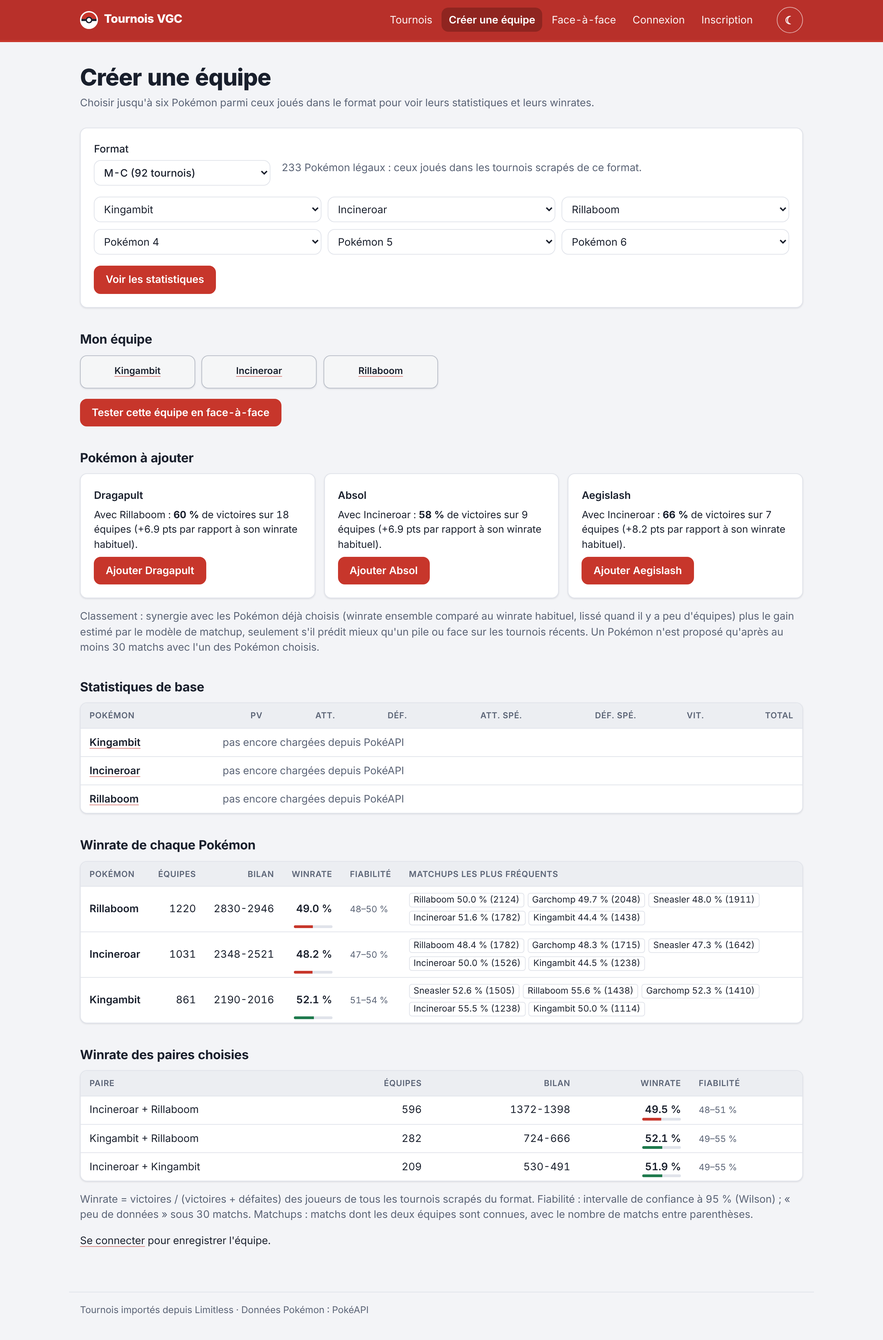
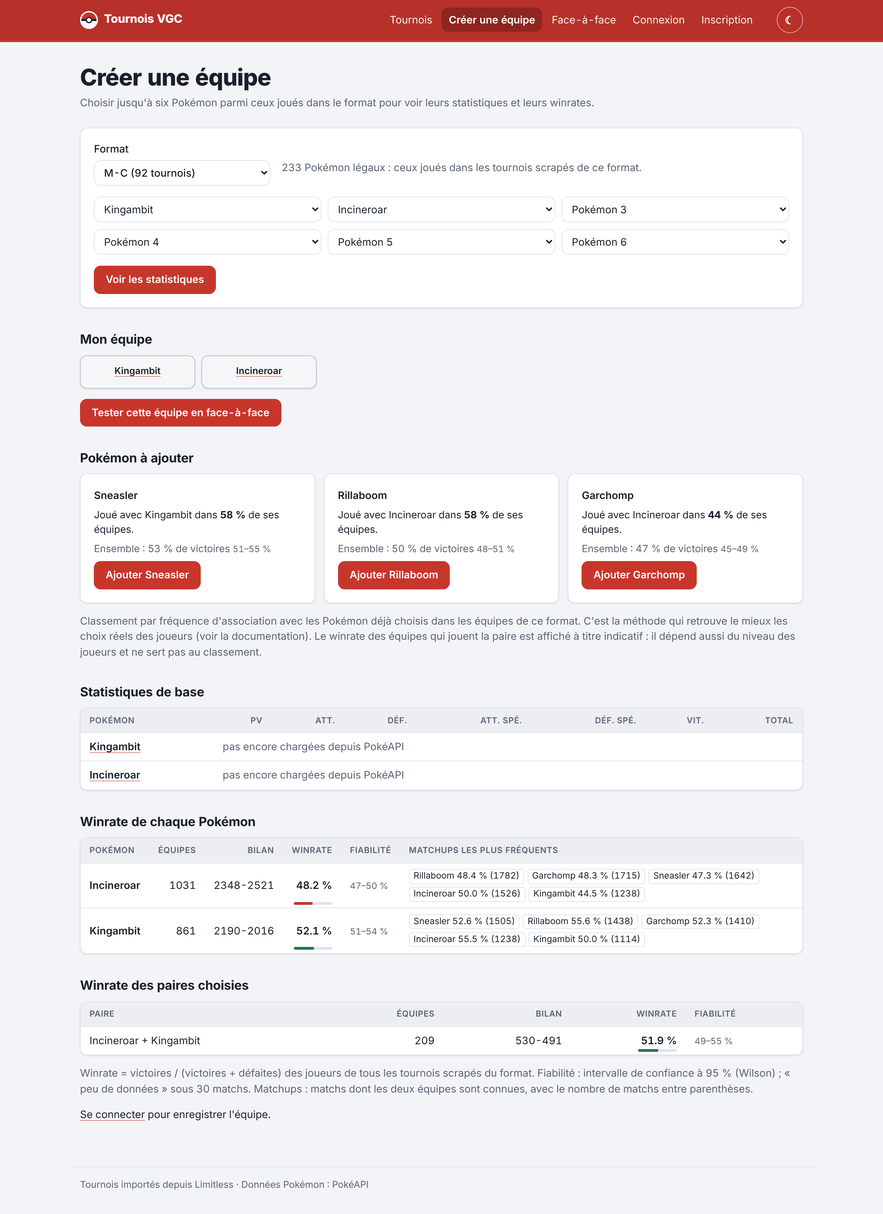
Documentation : effet des équipes à niveau égal, évaluation des suggestions, captures

diff --git a/docs/07-apprentissage.md b/docs/07-apprentissage.md
@@ -1,6 +1,8 @@
 # Statistiques fiables et modèle de matchup
 
-Ce document décrit la partie apprentissage de l'étape 3 (créateur d'équipes) : des winrates accompagnés de leur incertitude, un modèle qui prédit l'issue d'un match à partir des deux équipes, et des suggestions de Pokémon à ajouter dans le créateur. Il donne la méthode, les résultats mesurés et les limites.
+Ce document décrit la partie apprentissage de l'étape 3 (créateur d'équipes) : des winrates accompagnés de leur incertitude, des suggestions de Pokémon à ajouter dans le créateur, et un modèle de matchs qui mesure ce que la composition d'une équipe apporte une fois le niveau des joueurs retiré. Il donne la méthode, les résultats mesurés et les limites.
+
+Le but est de **conseiller le joueur pendant qu'il construit son équipe**, pas de prédire les matchs à l'avance. La prédiction ne sert qu'à corriger un biais : un Pokémon joué par de bons joueurs gagne souvent grâce à eux. Prédire les matchs avec le niveau des joueurs comme variable de contrôle sépare l'effet de l'équipe de celui du joueur.
 
 ## 1. Pourquoi
 
@@ -9,8 +11,8 @@ Avant cette partie, un winrate était affiché brut : `victoires / (victoires + 
 Objectifs :
 
 1. Dire pour chaque winrate s'il est fiable (intervalle de confiance, badge « peu de données »).
-2. Prédire « mon équipe contre celle-ci » avec un modèle évalué honnêtement, contre une référence naïve.
-3. Proposer dans le créateur les Pokémon qui complètent le mieux l'équipe, avec la raison de chaque proposition.
+2. Proposer dans le créateur les Pokémon qui complètent le mieux l'équipe, avec la raison de chaque proposition, et vérifier que ces propositions correspondent aux choix réels des joueurs.
+3. Mesurer, à niveau de joueur égal, si la composition de l'équipe fait gagner, avec un modèle évalué honnêtement contre des références naïves.
 
 ## 2. Données
 
@@ -49,81 +51,100 @@ Il est préféré à l'intervalle classique p ± z·√(p(1−p)/N), qui donne u
 
 **Seuil de 30 matchs.** Sous 30 matchs, l'intervalle fait encore plus de 30 points de large : le chiffre n'aide pas à décider.
 
-**Biais connu.** Le winrate d'un Pokémon additionne le bilan complet des équipes qui l'alignent. Il mesure aussi le niveau des joueurs qui le choisissent, pas seulement le Pokémon. Le modèle de la section 4 corrige en partie ce biais : il compare les équipes match par match.
+**Biais connu.** Le winrate d'un Pokémon additionne le bilan complet des équipes qui l'alignent. Il mesure aussi le niveau des joueurs qui le choisissent, pas seulement le Pokémon. Le modèle de la section 4 mesure l'effet des équipes à niveau égal, en contrôlant ce biais.
 
-## 4. Modèle de matchup
+## 4. Modèle de matchs : l'effet des équipes à niveau égal
 
-Code : `app/train.py` (entraînement), `app/matchup.py` (prédiction), migration `012_modele_matchup.sql`.
+Code : `app/train.py` (entraînement), `app/matchup.py` (prédiction), migrations `012_modele_matchup.sql` et `013_modele_niveau.sql`.
 
 ### Encodage
 
-Chaque match devient une ligne : un vecteur avec une case par Pokémon du format, qui vaut +1 si le Pokémon est dans l'équipe du joueur 1, −1 s'il est dans celle du joueur 2, et 0 sinon (y compris quand les deux équipes l'ont). La cible vaut 1 si le joueur 1 a gagné. La matrice est creuse : 12 cases non nulles sur environ 150.
+Chaque match devient une ligne : un vecteur avec une case par Pokémon du format, qui vaut +1 si le Pokémon est dans l'équipe du joueur 1, −1 s'il est dans celle du joueur 2, et 0 sinon (y compris quand les deux équipes l'ont). La cible vaut 1 si le joueur 1 a gagné. La matrice est creuse : 12 cases non nulles sur environ 230.
 
-### Modèle
+### Niveau des joueurs : Elo
 
-Régression logistique de scikit-learn, pénalité L2, **sans constante** :
+Le niveau de chaque joueur est suivi d'un tournoi à l'autre par son identifiant Limitless (`player.source_id`), avec un classement Elo classique : tout joueur part à 1500, et chaque match déplace les deux classements de 32 × (résultat − probabilité attendue). Les matchs sont parcourus dans l'ordre chronologique, tournoi par tournoi.
 
-P(A bat B) = σ(Σ poids des Pokémon de A − Σ poids des Pokémon de B).
+Le niveau d'un match est lu **avant** ce match : le modèle ne voit jamais le résultat qu'il doit prédire. Les rondes suisses sont traitées une par une (tous les matchs d'une ronde lisent les classements d'avant la ronde, puis les mettent à jour).
 
-Sans constante, le modèle est antisymétrique : P(B bat A) = 1 − P(A bat B), quel que soit l'ordre des joueurs dans les données. Sur Limitless, le joueur 1 gagne environ une fois sur deux (102 contre 99 sur un tournoi témoin), donc l'ordre ne porte pas d'information.
+**Fuite corrigée dans le top cut.** Dans les données Limitless, le numéro de ronde est le même pour tout le top cut (63 tournois sur 76). Trier par ronde puis par identifiant rangeait alors les matchs du top cut dans l'ordre des joueurs, pas dans l'ordre du tableau : un quart de finale pouvait lire un classement déjà mis à jour par la demi-finale du même joueur. Le top cut d'un tournoi est donc traité comme un seul bloc simultané. Sur une variable proche (le bilan avant le match), cette fuite faisait passer la précision de 55 % à 58 % : un gain artificiel.
 
-Chaque poids se lit directement : positif, le Pokémon fait gagner. C'est le modèle de Bradley-Terry appliqué aux Pokémon plutôt qu'aux joueurs, que la régression logistique estime simplement.
+### Modèle en deux étages
+
+P(A bat B) = σ(d + Σ poids des Pokémon de A − Σ poids des Pokémon de B), avec d = ln(10) · (Elo_A − Elo_B) / 400.
+
+- **Étage 1, le niveau** : le décalage d est fixé, pas appris. C'est la probabilité de l'Elo écrite en logit : avec des équipes neutres, le modèle redonne exactement la prédiction de l'Elo.
+- **Étage 2, les équipes** : les poids des Pokémon sont appris par une régression logistique avec pénalité L2, **sans constante**, en gardant d fixe. Un poids mesure donc ce que le Pokémon apporte **à niveau de joueur égal**. Le biais « les bons joueurs choisissent ce Pokémon » est retiré par d.
+
+La régression est écrite directement avec NumPy et SciPy (minimisation L-BFGS de la log-loss pénalisée, gradient exact) : scikit-learn ne sait pas garder un décalage fixe par match. Sans constante, le modèle reste antisymétrique : P(B bat A) = 1 − P(A bat B), quel que soit l'ordre des joueurs dans les données (sur Limitless, le joueur 1 gagne environ une fois sur deux).
+
+C'est le modèle de Bradley-Terry appliqué aux Pokémon, avec le niveau des joueurs comme variable de contrôle.
 
 ### Évaluation
 
-L'évaluation est **chronologique**, par tournoi, pour imiter l'usage réel (prédire les prochains tournois avec les anciens) et éviter qu'un même tournoi soit à la fois en entraînement et en test :
+L'évaluation est **chronologique**, par tournoi, pour imiter l'usage réel (apprendre sur les anciens tournois, mesurer sur les suivants) et éviter qu'un même tournoi soit à la fois en entraînement et en test :
 
 1. Les 20 % de tournois les plus récents forment le jeu de **test**.
-2. Dans le reste, les 20 % les plus récents servent de **validation** pour choisir la force de régularisation C parmi 0,01, 0,03, 0,1, 0,3 et 1 (meilleure log-loss).
+2. Dans le reste, les 20 % les plus récents servent de **validation** pour choisir la force de régularisation C parmi 0,001, 0,003, 0,01, 0,03 et 0,1 (meilleure log-loss). Un petit C donne des poids proches de 0.
 3. Le modèle entraîné sur le reste avec ce C est mesuré sur le test.
 4. Le modèle enregistré est ensuite réentraîné sur **tous** les matchs du format, avec le même C.
 
-Métriques sur le test, comparées à la prédiction constante « 50 % » (la référence naïve) :
+Deux références sur le test :
 
-| Métrique | Référence 50 % | Lecture |
+| Référence | Ce qu'elle prédit | Rôle |
 |---|---|---|
-| log-loss | ln 2 ≈ 0,693 | plus bas = meilleures probabilités |
-| score de Brier | 0,25 | erreur quadratique moyenne des probabilités |
-| précision | environ 50 % | part des matchs où le favori a gagné |
+| pile ou face | 50 % pour chaque match (log-loss ln 2 ≈ 0,693, Brier 0,25) | un modèle doit au moins faire mieux |
+| niveau seul | la probabilité de l'Elo (étage 1 sans les poids) | **la vraie question** : les équipes ajoutent-elles quelque chose ? |
 
-Un format n'a pas de modèle s'il a moins de 200 matchs ou moins de 3 tournois (entraînement, validation et test). Les valeurs de C essayées vont de 0,0003 à 1 : une valeur très petite donne des poids presque nuls, donc une prédiction proche de 50 %.
+L'effet des équipes est l'écart Δ = log-loss du modèle complet − log-loss du niveau seul (négatif = les équipes aident). Son intervalle à 95 % est calculé par bootstrap **par tournoi** (1 000 tirages avec remise des tournois de test, graine fixe), parce que les matchs d'un même tournoi ne sont pas indépendants : mêmes joueurs, même méta. Les équipes sont jugées utiles (`teams_help`) seulement si tout l'intervalle est négatif et que le test compte au moins 2 tournois (avec un seul, l'intervalle n'a pas de largeur).
+
+Un format n'a pas de modèle s'il a moins de 200 matchs ou moins de 3 tournois (entraînement, validation et test).
 
 ### Résultats
 
-Mesurés sur les 92 tournois M-C téléchargés le 10 novembre 2026 (7 879 matchs), avec `python -m app.train` sur une base locale :
+Mesurés sur les 92 tournois M-C téléchargés le 10 novembre 2026 (7 879 matchs), avec `python -m app.train` sur une base locale. Test : les 18 tournois les plus récents, 1 087 matchs.
 
-| Mesure (test : 18 tournois les plus récents, 1 087 matchs) | Modèle (C = 0,003 choisi en validation) | Référence 50 % |
-|---|---|---|
-| log-loss | 0,698 | 0,693 |
-| score de Brier | 0,2525 | 0,25 |
-| précision | 50,0 % | 50 % |
+| Modèle (test) | log-loss | Brier | précision |
+|---|---|---|---|
+| pile ou face | 0,6931 | 0,2500 | 50 % |
+| Pokémon seuls (première version, sans niveau) | 0,6982 | 0,2525 | 50,0 % |
+| niveau seul (Elo) | **0,6816** | 0,2442 | 54,6 % |
+| niveau + Pokémon (C = 0,003 choisi en validation) | 0,6855 | 0,2462 | 52,9 % |
 
-**Le modèle ne fait pas mieux que la prédiction constante de 50 %.** Plusieurs mesures vont dans le même sens :
+Effet des équipes à niveau égal : Δ = +0,0039, intervalle à 95 % [−0,0015 ; +0,0093]. **La composition de l'équipe n'apporte pas de gain mesurable une fois le niveau des joueurs connu**, et la première version (Pokémon seuls) ne faisait pas mieux que pile ou face. Le niveau des joueurs, lui, bat nettement pile ou face.
 
-- Sur les données d'entraînement elles-mêmes, il atteint 0,670 de log-loss et 59 % de précision (C = 1). Ce qu'il apprend ne se retrouve pas sur les tournois suivants : c'est du sur-apprentissage.
-- Plus la régularisation est forte, plus il se rapproche de 50 % et meilleure est sa log-loss (C = 0,0003 : 0,6939). La validation choisit donc des poids presque nuls.
-- Sur quatre coupes chronologiques successives (entraînement sur les 50, 60, 70 puis 80 % premiers tournois, test sur les 10 % suivants, C = 0,01), la log-loss va de 0,684 à 0,699 et la précision de 53 à 56 %. Il y a un léger signal sur certaines périodes, mais rien de stable.
-- Les poids appris restent petits : de −0,08 (Torkoal) à +0,10 (Kingambit). Une équipe ne déplace la probabilité que de quelques points.
+**Autres pistes mesurées.** Avant de retenir ce modèle, une quinzaine de variantes ont été comparées avec le même protocole (Δ par rapport à l'Elo seul, intervalle bootstrap par tournoi) :
 
-**Explication.** Les rondes suisses apparient des joueurs de même bilan. Plus le tournoi avance, plus les deux joueurs d'un match ont le même niveau de résultats, et donc souvent des équipes de force comparable : le match se rapproche d'un pile ou face par construction. Le niveau des joueurs, que le modèle ne voit pas, pèse ensuite plus que la composition de l'équipe. Avec un mois de tournois en ligne, la composition seule ne suffit pas à prédire le vainqueur.
+| Piste | log-loss | précision | Lecture |
+|---|---|---|---|
+| Elo, K = 48 (meilleur K en validation) | 0,6853 | 54,6 % | K = 32 reste meilleur sur le test |
+| taux de victoire passé lissé (V+2)/(N+4) | 0,6788 | 57,6 % | meilleur score, mais l'écart avec l'Elo n'est pas significatif [−0,011 ; +0,004] |
+| Bradley-Terry des joueurs réestimé à chaque ronde | 0,6830 | 56,3 % | pas significatif non plus |
+| logistique Elo + historique + Bradley-Terry + expérience | 0,6834 | 55,4 % | combiner n'aide pas |
+| … + bilan suisse du tournoi | 0,6842 | 55,0 % | rien de plus une fois la fuite corrigée |
+| LightGBM (niveau, bilan, équipe) | 0,6823 | 53,8 % | pas mieux qu'un modèle linéaire |
 
-**Conséquence dans l'application.** Le modèle reste entraîné et évalué chaque nuit, mais il n'est utilisé que s'il bat la référence :
+Blocs d'équipe ajoutés à l'Elo, écart de log-loss sur le test (positif = pire) : Pokémon +0,007, objets +0,006, talents +0,004, Pokémon et objet +0,008, Pokémon et attaques +0,006, tout ensemble +0,009, winrate brut des Pokémon +0,005, synergie moyenne des 15 paires +0,004. Seules la popularité des Pokémon et la cohérence de l'équipe (co-occurrence des paires) sont neutres. Les types n'ont pas pu être testés : la table `pokemon_type` est vide.
 
-- `beats_baseline` (log-loss du test < ln 2) est renvoyé par `/api/model` et `/api/predict` ;
-- la page Face-à-face affiche un avertissement quand il est faux ;
-- les suggestions du créateur n'utilisent le gain du modèle que s'il est vrai, et se fondent sinon sur la synergie seule.
+**Explication.**
 
-Si le scraping quotidien fait apparaître du signal (davantage de tournois, tournois officiels), le modèle reprendra sa place sans changer le code.
+- Sur la validation, les blocs d'équipe gagnent environ 0,003, puis perdent sur le test : la méta change d'un tournoi à l'autre, et ce qui faisait gagner le mois dernier ne fait plus gagner ensuite.
+- Les rondes suisses apparient des joueurs de même bilan, qui ont souvent des équipes de force comparable : le match se rapproche d'un pile ou face par construction.
+- La précision dépend surtout de l'historique des joueurs : l'Elo fait 55 % sur tout le test, 61 % quand les deux joueurs ont au moins 10 matchs derrière eux, 69 % à partir de 20. Or la moitié des joueurs n'ont joué qu'un tournoi, et 14 % des matchs du test opposent au moins un nouveau joueur. Avec ces données, environ 57 % est un plafond raisonnable.
 
-**Synergie.** Le même jeu de données sert à vérifier les synergies de paires. Le seuil est 30 matchs ensemble, avec le lissage décrit en section 5. La synergie a été mesurée sur la première moitié des tournois, puis sur la seconde, pour les 952 paires présentes dans les deux. La corrélation entre les deux mesures est de 0,15. Les 10 % de paires les plus synergiques de la première moitié font +0,5 point dans la seconde, contre 0 en moyenne. Le signal est faible mais va dans le bon sens. Les suggestions sont présentées comme des pistes, avec leur bilan, pas comme des certitudes.
+**Conséquence dans l'application.**
+
+- Les poids du modèle ne servent pas aux suggestions (section 5).
+- La page Face-à-face affiche la probabilité **à niveau de joueur égal** et, tant que `teams_help` est faux, un avertissement : la composition n'a pas d'effet mesurable, le chiffre est indicatif.
+- Le modèle est réentraîné chaque nuit. Si le scraping quotidien fait apparaître un effet des équipes (plus de tournois, plus d'historique par joueur), l'avertissement disparaît sans changer le code.
 
 **Winrates.** Sur les 233 Pokémon joués en M-C, 81 ont moins de 30 matchs et portent le badge « peu de données ». Aucun n'est plus affiché à « 100 % » sans intervalle. Les Pokémon les plus joués ont des intervalles d'environ ±1,3 point (Rillaboom : 49,0 %, entre 47,7 et 50,3 %, sur 5 776 matchs).
 
-**Coût.** L'entraînement complet (lecture, choix de C, test, réentraînement) prend quelques secondes, avec un pic mémoire de 154 Mo. La limite du CronJob est de 512 Mo.
+**Coût.** L'entraînement complet (lecture, Elo, choix de C, test, bootstrap, réentraînement) prend quelques secondes. La limite mémoire du CronJob est de 512 Mo.
 
 ### Stockage et réentraînement
 
-Le modèle est linéaire : il tient dans une table de poids (`matchup_weight`) et une ligne de métriques (`matchup_model`) par format. L'API prédit en additionnant des poids lus en base. scikit-learn n'est utilisé que par l'entraînement, qui tourne dans la même image Docker que le tournament-service avec une autre commande.
+Le modèle est linéaire : il tient dans une table de poids (`matchup_weight`) et une ligne de métriques (`matchup_model`) par format, avec la log-loss du niveau seul, l'intervalle de Δ et le nombre de tournois de test (migration 013, qui supprime les modèles entraînés avant elle : le prochain entraînement les recrée). L'API prédit en additionnant des poids lus en base. NumPy et SciPy ne servent qu'à l'entraînement, qui tourne dans la même image Docker que le tournament-service avec une autre commande. Si l'optimisation ne converge pas, le format est signalé en erreur et l'ancien modèle reste en base.
 
 En Kubernetes, le CronJob `entrainement` (`k8s/tournament/cronjob-entrainement.yaml`) réentraîne chaque jour à 7 h, une heure après le scraper. Chaque format est remplacé dans une transaction : l'API ne lit jamais un modèle à moitié écrit, et les deux répliques du tournament-service voient le même modèle sans volume partagé. Le pod du CronJob a le label `app: entrainement`, autorisé à joindre MySQL par la NetworkPolicy.
 
@@ -135,39 +156,73 @@ kubectl -n pokemon logs job/entrainement-manuel
 docker compose run --rm tournament-service .venv/bin/python -m app.train
 ```
 
+Sortie sur les données du 10 novembre :
+
+```text
+M-C : 6792 matchs d'entraînement, 1087 de test, C=0.003 | log-loss : complet 0.6855, niveau seul 0.6816, 50 % 0.6931 | écart complet - niveau seul +0.0039 [IC 95 % -0.0015 ; +0.0093] : pas d'effet mesurable des équipes | précision 52.9%
+```
+
 ### API
 
 | Route | Rôle |
 |---|---|
-| `GET /api/model?format=` | date d'entraînement et métriques de test, avec celles de la référence |
-| `GET /api/predict?format=&a=…&b=…` | probabilité que l'équipe `a` batte `b`, poids de chaque Pokémon (le plus influent d'abord) |
-| `GET /api/suggestions?format=&pokemon=…&limit=3` | Pokémon à ajouter à l'équipe, avec leur raison |
+| `GET /api/model?format=` | date d'entraînement, métriques de test, log-loss du niveau seul, intervalle de Δ, `teams_help` et références |
+| `GET /api/predict?format=&a=…&b=…` | probabilité que l'équipe `a` batte `b` à niveau égal, poids de chaque Pokémon (le plus influent d'abord) |
+| `GET /api/suggestions?format=&pokemon=…&limit=3` | Pokémon à ajouter à l'équipe, avec leurs partenaires |
 
-Sans modèle pour le format, `/api/model` et `/api/predict` renvoient 404 ; les suggestions marchent quand même, avec la synergie seule.
+Sans modèle pour le format, `/api/model` et `/api/predict` renvoient 404 ; les suggestions n'en dépendent pas.
 
-Page web : **Face-à-face** (`/versus`), deux équipes de six cases. Elle affiche la probabilité, les six Pokémon qui pèsent le plus et les métriques du modèle. Le créateur a un lien « Tester cette équipe en face-à-face ».
+Page web : **Face-à-face** (`/versus`), deux équipes de six cases. Elle affiche la probabilité à niveau égal, les six Pokémon qui pèsent le plus et les métriques du modèle. Le créateur a un lien « Tester cette équipe en face-à-face ».
 
 ## 5. Suggestions dans le créateur
 
-Quand l'équipe a entre 1 et 5 Pokémon, le créateur affiche les trois Pokémon légaux qui la complètent le mieux. Chacun a un bouton « Ajouter ». Score d'un candidat c, pour l'équipe choisie S :
+Quand l'équipe a entre 1 et 5 Pokémon, le créateur affiche les trois Pokémon légaux qui la complètent le mieux. Chacun a un bouton « Ajouter ».
 
-**score(c) = synergie(c, S) + gain(c, S)**, deux termes en points de probabilité de victoire.
+### Méthode : co-occurrence (Bayes naïf)
 
-- **Synergie** : « fonctionne bien avec ceux qu'on a déjà pris ». Pour chaque Pokémon s de S, on compare le winrate des équipes qui alignent c et s ensemble au winrate habituel de c. Le winrate ensemble est lissé vers le winrate habituel de c avec 50 matchs fictifs, soit environ 7 équipes. Ce lissage est plus fort que celui des winrates simples : sur les vraies données, une paire jouée par 9 équipes passait sinon devant une paire jouée par 40. Une paire de moins de 30 matchs compte pour 0. Un candidat qui n'a 30 matchs avec aucun Pokémon de S n'est pas proposé. La synergie est la moyenne de ces écarts. Comparer à c seul évite de compter deux fois la force propre de c, déjà dans le second terme.
-- **Gain** : hausse, selon le modèle, de la probabilité de battre une équipe moyenne du format quand on ajoute c. Les places encore vides comptent comme des Pokémon moyens (poids m = f / 6), pour toujours comparer des équipes de six. Avec T = s_S + (6 − |S|)·m − f, le gain vaut σ(T + w_c − m) − σ(T). Ici s_S est la somme des poids de S, w_c le poids de c et f le score moyen des équipes du format, chacune comptée autant de fois qu'elle a joué. f est calculé à l'entraînement. Le gain vaut 0 s'il n'y a pas encore de modèle, ou si le modèle ne bat pas la référence de 50 % (section 4).
+Les suggestions reprennent ce que font les joueurs : quels Pokémon apparaissent le plus souvent dans les équipes qui contiennent déjà ceux qu'on a choisis. Sur les N équipes du format, pour un candidat c et l'équipe choisie S :
 
-La raison affichée est celle du meilleur partenaire. Exemple réel pour Kingambit seul : « Aerodactyl. Avec Kingambit : 54 % de victoires sur 35 équipes (+5,6 pts par rapport à son winrate habituel). » La ligne « Modèle : +x pts » n'apparaît que si le modèle bat la référence.
+**score(c) = Σ_{p ∈ S} log( (n(c, p) + α · P(c)) / (n(p) + α) )**, avec P(c) = (n(c) + 1) / (N + 1) et α = 1.
+
+- n(c, p) : équipes qui jouent c et p ; n(p) : équipes qui jouent p ; n(c) : équipes qui jouent c.
+- Chaque terme est la probabilité, lissée, qu'une équipe qui joue p joue aussi c. Les additionner en logarithme revient à multiplier ces probabilités, comme un classifieur Bayes naïf qui suppose les Pokémon choisis indépendants.
+- Le lissage ajoute une équipe fictive, au taux d'usage de c. Une paire jamais vue ne donne pas un score infini, et un Pokémon rare n'est pas favorisé par une seule équipe.
+
+Chaque carte affiche, pour chaque Pokémon déjà choisi, la part de ses équipes qui jouent aussi le candidat (« Joué avec Kingambit dans 58 % de ses équipes »), puis le winrate de ces équipes avec son intervalle et le badge « peu de données ». Ce winrate est indicatif : il ne sert pas au classement.
+
+Exemple réel pour Kingambit et Incineroar : Sneasler (58 % des équipes de Kingambit), Rillaboom, Garchomp.
+
+### Évaluation : retrouver le choix réel des joueurs
+
+Les 501 équipes complètes des 18 tournois de test servent de vérité. On cache chaque Pokémon à tour de rôle (3 006 cas), on classe tous les Pokémon du format à partir des 5 restants, et on regarde si le Pokémon caché est dans les 1, 3 ou 10 premiers (hit@k). Toutes les statistiques viennent des tournois d'entraînement seulement.
+
+| Méthode | hit@1 | hit@3 | hit@10 | rang médian |
+|---|---|---|---|---|
+| popularité seule | 9,2 % | 25,1 % | 49,6 % | 11 |
+| **co-occurrence (retenue)** | **36,0 %** | **53,3 %** | **77,8 %** | **3** |
+| lift moyen P(c\|p) / P(c) | 11,4 % | 24,7 % | 48,6 % | 11 |
+| synergie de winrate des paires (première version) | 8,6 % | 16,2 % | 34,9 % | 21 |
+| poids du modèle à niveau égal | 7,3 % | 10,3 % | 26,5 % | 25 |
+| co-occurrence + poids du modèle | 35,9 % | 53,4 % | 77,5 % | 3 |
+
+Écarts de hit@3 (intervalle bootstrap par tournoi) : co-occurrence − synergie = +37 points [+33,5 ; +40,1], co-occurrence − popularité = +28 points [+25 ; +31]. Ajouter les poids du modèle n'apporte rien (+0,1 point [0 ; +0,3]) : ils ne sont pas utilisés.
+
+**Pourquoi pas la synergie de winrate.** La première version classait par synergie : le winrate des équipes qui jouent c et p ensemble, comparé au winrate habituel de c, plus le gain estimé par le modèle. Deux mesures l'ont écartée :
+
+- Elle est instable : mesurée sur la première moitié des tournois puis sur la seconde, pour les 952 paires présentes dans les deux, la corrélation entre les deux mesures est de 0,15.
+- Elle retrouve mal les choix réels (16 % de hit@3 contre 53 %), et à niveau égal elle n'aide pas à prédire les matchs (section 4).
 
 Captures (données des 94 tournois, base locale) : [créateur](rapport/ml-createur-suggestions.png), [face-à-face](rapport/ml-face-a-face.png), [fiche Pokémon avec intervalle](rapport/ml-fiche-fiabilite.png).
 
 ## 6. Limites
 
-- **Le niveau des joueurs n'est pas dans le modèle.** Un bon joueur gagne avec une équipe moyenne. C'est la plus grosse source de bruit : la précision attendue reste modeste, même avec beaucoup de données. Ajouter un niveau par joueur (Elo) demanderait de suivre les joueurs d'un tournoi à l'autre. C'est possible avec `player.source_id`, mais hors du périmètre de ce POC.
-- **Modèle additif.** Un Pokémon a le même poids quelle que soit l'équipe adverse. Le modèle ne voit pas les contres (« X bat Y »). Les interactions par paire multiplieraient le nombre de poids par environ 75, et il faudrait beaucoup plus de matchs. C'est pour cela que la synergie des suggestions vient des statistiques de paires et non du modèle.
-- **Pas de quoi apprendre les rares Pokémon.** Un Pokémon vu dans quelques matchs a un poids proche de 0 à cause de la régularisation : le modèle le traite comme neutre. Un Pokémon jamais vu est signalé « jamais vu en match ».
-- **Données d'un seul site** et de tournois en ligne de tailles variées. Les résultats ne valent pas pour les tournois officiels en présentiel.
-- **Synergie et biais de niveau.** Les winrates de paires portent le même biais de niveau que les winrates simples. Le lissage n'enlève que le bruit des petits effectifs.
+- **Les suggestions suivent la méta.** La co-occurrence propose ce que les joueurs associent, pas ce qui gagne plus. C'est un choix assumé : à niveau égal, aucune mesure de composition testée ne fait gagner davantage sur ces données (section 4). Les équipes à bilan positif ne sont pas mieux retrouvées que les autres (hit@3 55,1 % contre 52,6 %, écart non significatif).
+- **Niveau des joueurs approximatif.** La moitié des joueurs n'ont joué qu'un tournoi : leur Elo reste proche de 1500. Plus d'historique (tournois plus anciens, mêmes joueurs) améliorerait le contrôle du niveau.
+- **Modèle additif.** Un Pokémon a le même poids quelle que soit l'équipe adverse : le modèle ne voit pas les contres (« X bat Y »). Les interactions par paire multiplieraient le nombre de poids par environ 100, et il faudrait beaucoup plus de matchs.
+- **Pokémon rares.** Un Pokémon vu dans quelques matchs a un poids proche de 0 à cause de la régularisation : le modèle le traite comme neutre. Un Pokémon jamais vu est signalé « jamais vu en match ».
+- **Données d'un seul site**, de tournois en ligne de tailles variées, sur un mois. Les résultats ne valent pas pour les tournois officiels en présentiel.
+- **Pas de types.** La table `pokemon_type` est vide : la couverture de types n'a pas pu être testée comme variable.
 
 ## 7. Ce qui n'a pas été fait, volontairement
 
-Pas de clustering d'archétypes, pas de suivi d'expériences (MLflow), pas de modèle non linéaire (forêts, réseaux). Ils demanderaient plus de données ou d'outillage, pour un gain incertain : le sujet demande des statistiques de winrate, et une régression logistique bien évaluée y répond de façon explicable.
+Pas de clustering d'archétypes, pas de suivi d'expériences (MLflow), pas de modèle non linéaire (forêts, réseaux). Ils demanderaient plus de données ou d'outillage, pour un gain incertain : le sujet demande des statistiques de winrate et des conseils, et des comptages et une régression logistique bien évaluée y répondent de façon explicable. Le seul modèle non linéaire essayé (LightGBM, section 4) ne fait pas mieux.

diff --git a/docs/rapport/rapport.md b/docs/rapport/rapport.md
@@ -15,7 +15,7 @@
 1. **Tournois réels** : un scraper récupère chaque jour les tournois VGC (doubles, règlement en vigueur) de play.limitlesstcg.com. Il enregistre tous les joueurs, leurs équipes et tous les matchs. Le site affiche le top 16 avec les équipes complètes : objets, talents, attaques, types, statistiques et sprites. Les drapeaux des joueurs sont affichés à côté de leur nom.
 2. **Espace utilisateur** : inscription, connexion (jeton JWT dans un cookie `HttpOnly`), saisie d'un tournoi local au niveau « vainqueur seul » ou « top 16 ».
 3. **Créateur d'équipes** : seuls les Pokémon joués dans le format courant sont proposés. Pour chaque Pokémon et chaque paire, le site affiche le winrate calculé sur tous les matchs enregistrés, avec les matchups les plus fréquents. L'utilisateur peut enregistrer son équipe. Chaque winrate est affiché avec son intervalle de confiance et un badge « peu de données » quand il repose sur moins de 30 matchs. Le créateur propose les trois Pokémon qui complètent le mieux l'équipe, avec la raison de chaque proposition.
-4. **Prédiction de matchs** : un modèle de régression logistique, réentraîné chaque nuit par un CronJob, estime la probabilité qu'une équipe en batte une autre (page Face-à-face). Il est évalué sur les tournois les plus récents, contre une prédiction naïve à 50 %.
+4. **Conseils d'équipe et prédiction de matchs** : le créateur propose les Pokémon les plus souvent associés à ceux déjà choisis. Un modèle de régression logistique, réentraîné chaque nuit par un CronJob, mesure ce que la composition apporte à niveau de joueur égal (page Face-à-face). Il est évalué sur les tournois les plus récents, contre une prédiction à 50 % et contre le niveau des joueurs seul.
 
 ## 2. Paliers du sujet
 
@@ -155,25 +155,35 @@ L'application servie depuis GKE, avec l'adresse de l'équilibreur de charge.
 - **Gateway** : ingress-nginx n'est plus maintenu (dépôt archivé, dernière version `controller-v1.15.1` en mars 2026). C'est le seul composant exposé, et il ne recevra plus de correctifs de sécurité. Le remplacer par une implémentation de Gateway API serait la suite logique.
 - **Images externes** : sprites (dépôt GitHub de PokéAPI) et drapeaux (flagcdn.com) sont chargés par le navigateur. Une URL de sprite qui ne vient pas de PokéAPI est refusée.
 
-## 8. Apprentissage : winrates fiables et prédiction des matchs
+## 8. Apprentissage : winrates fiables, conseils d'équipe et effet des équipes
 
 Méthode complète, formules et limites : [`docs/07-apprentissage.md`](../07-apprentissage.md).
 
+L'objectif est de **conseiller le joueur pendant qu'il construit son équipe**. La prédiction des matchs ne sert qu'à retirer un biais : un Pokémon choisi par de bons joueurs gagne souvent grâce à eux.
+
 - **Données** : les matchs des tournois scrapés dont les deux équipes sont connues. Au 10 novembre, la base minikube (24 tournois) était trop petite pour un modèle. Un téléchargement ponctuel de 94 tournois récents a donné 7 879 matchs utilisables au format courant.
 - **Winrates fiables** : intervalle de Wilson à 95 %, winrate lissé par un prior Beta(5, 5) pour les classements, badge « peu de données » sous 30 matchs. Un 2-0 n'est plus présenté comme « 100 % » sans nuance : il s'affiche « 34–100 % · peu de données ».
-- **Modèle** : régression logistique sans constante sur un vecteur +1/−1 par Pokémon. P(A bat B) ne dépend que de la différence des sommes des poids, donc P(B bat A) = 1 − P(A bat B). La force de régularisation est choisie sur une validation chronologique.
-- **Évaluation** : les 20 % de tournois les plus récents servent de test.
+- **Suggestions du créateur** : les Pokémon les plus souvent associés, dans les équipes du format, à ceux déjà choisis (co-occurrence lissée, classement de type Bayes naïf). Évaluation : sur les 501 équipes des 18 tournois les plus récents, on cache un Pokémon et on regarde s'il est dans les trois suggestions. C'est le cas dans **53 %** des cas, contre 25 % pour les Pokémon les plus populaires et 16 % pour la première version, fondée sur le winrate des paires. Le winrate de chaque paire reste affiché, avec son intervalle, à titre indicatif.
+- **Modèle de matchs en deux étages** : le niveau des joueurs (Elo suivi d'un tournoi à l'autre) en décalage fixe, puis un poids par Pokémon appris par régression logistique L2 sans constante, écrite avec NumPy et SciPy. Un poids mesure donc l'apport du Pokémon à niveau égal. Une fuite de données a été trouvée et corrigée : dans le top cut, l'ordre des matchs suivait l'identifiant des joueurs et non le tableau.
+- **Évaluation chronologique** (20 % de tournois les plus récents en test, 1 087 matchs) :
 
-  Sur 18 tournois de test (1 087 matchs), le modèle fait 0,698 de log-loss contre 0,693 pour la prédiction constante de 50 %, et 50 % de bons vainqueurs : **il ne bat pas la référence**. Sur les données d'entraînement, il atteint 59 %. Ce qu'il apprend ne se généralise donc pas. Explication probable : les rondes suisses apparient des joueurs de même bilan, et le niveau des joueurs, absent du modèle, compte plus que la composition de l'équipe.
-  L'application en tient compte : le modèle n'est utilisé que s'il bat la référence (`beats_baseline`). Sinon, la page Face-à-face affiche un avertissement, et les suggestions se fondent sur la synergie seule. Ces synergies de paires se retrouvent faiblement d'une moitié des tournois à l'autre (corrélation de 0,15).
+  | Modèle | log-loss | précision |
+  |---|---|---|
+  | pile ou face | 0,693 | 50 % |
+  | Pokémon seuls (première version) | 0,698 | 50 % |
+  | niveau seul (Elo) | **0,682** | 54,6 % |
+  | niveau + Pokémon | 0,686 | 52,9 % |
 
-- **Mise en production** : l'entraînement tourne dans un CronJob Kubernetes avec la même image que le `tournament-service`, et écrit les poids dans MySQL. L'API prédit en additionnant des poids, sans scikit-learn, et toutes ses répliques lisent le même modèle.
-- **Suggestions du créateur** : score = synergie avec les Pokémon déjà choisis (winrate ensemble comparé au winrate habituel du candidat, lissé) + gain de probabilité estimé par le modèle.
+  Effet des équipes à niveau égal : +0,004 de log-loss, intervalle à 95 % [−0,002 ; +0,009] (bootstrap par tournoi). **Une fois le niveau des joueurs connu, la composition de l'équipe n'apporte pas de gain mesurable** sur ces données. Une quinzaine d'autres pistes ont été mesurées (objets, talents, attaques, bilan du tournoi, LightGBM…) : aucune ne fait mieux. La méta change d'un tournoi à l'autre, et la moitié des joueurs n'ont joué qu'un tournoi.
+  L'application le dit : la page Face-à-face donne une probabilité « à niveau de joueur égal » avec un avertissement tant que l'effet n'est pas mesurable, et les suggestions n'utilisent pas les poids du modèle.
+
+- **Mise en production** : l'entraînement tourne dans un CronJob Kubernetes avec la même image que le `tournament-service`, et écrit les poids et les mesures dans MySQL. L'API prédit en additionnant des poids, et toutes ses répliques lisent le même modèle.
+
 ![Créateur : Pokémon à ajouter et fiabilité des winrates](ml-createur-suggestions.png)
 
-![Face-à-face, avec l'avertissement quand le modèle ne bat pas 50 %](ml-face-a-face.png)
+![Face-à-face à niveau égal, avec l'avertissement](ml-face-a-face.png)
 
-- **Limites** : le niveau des joueurs n'est pas modélisé, alors qu'il compte au moins autant que l'équipe. Le modèle additif ne voit pas les contres entre deux Pokémon. Les données viennent d'un seul site de tournois en ligne.
+- **Limites** : les suggestions suivent la méta (ce que les joueurs associent, pas ce qui gagne plus), faute d'effet mesurable des équipes. Le niveau des joueurs est approximatif pour les nouveaux joueurs. Le modèle additif ne voit pas les contres entre deux Pokémon. Les données viennent d'un seul site de tournois en ligne, sur un mois.
 
 ## 9. Labs Google **[À compléter]**
 

diff --git a/docs/02-architecture.md b/docs/02-architecture.md
@@ -175,7 +175,7 @@ CREATE TABLE app_user (
 - **Winrate par matchup** : à partir de `game_match`, on compare l'équipe du vainqueur et celle du perdant (Pokémon contre Pokémon). Tous les joueurs et tous les matchs du tournoi sont enregistrés, pour que les winrates ne viennent pas que des joueurs qui ont gagné. Seuls les matchs dont les deux joueurs ont publié leur équipe comptent.
 - **[Reco]** Calcul en SQL (requêtes ou vues) à la demande. Une table de cache ne se justifie que si c'est mesurablement lent.
 - **Fiabilité** : chaque winrate est accompagné d'un intervalle de confiance de Wilson à 95 %, d'une version lissée (prior Beta(5, 5)) et d'un drapeau « peu de données » sous 30 matchs.
-- **Modèle de matchup** : une régression logistique par format, un poids par Pokémon, entraînée chaque nuit par le CronJob `entrainement` (même image que le `tournament-service`) et stockée dans `matchup_model` et `matchup_weight` (migration 012). L'API prédit en additionnant les poids, sans scikit-learn. Détails : [07-apprentissage.md](07-apprentissage.md).
+- **Modèle de matchup** : par format, le niveau des joueurs (Elo) en décalage fixe puis un poids par Pokémon (régression logistique écrite avec NumPy et SciPy), entraîné chaque nuit par le CronJob `entrainement` (même image que le `tournament-service`) et stocké dans `matchup_model` et `matchup_weight` (migrations 012 et 013). L'API prédit en additionnant les poids. Les suggestions du créateur viennent de la co-occurrence des Pokémon dans les équipes du format. Détails : [07-apprentissage.md](07-apprentissage.md).
 
 ## 4. Flux de données
 

diff --git a/docs/README.md b/docs/README.md
@@ -15,7 +15,7 @@ Application web autour des résultats de tournois Pokémon : recensement des tou
 | [04-guide-de-contribution.md](04-guide-de-contribution.md) | Workflow GitHub, conventions de code, de commit et de test |
 | [05-checklist-conformite.md](05-checklist-conformite.md) | Liste à cocher avant le rendu |
 | [06-plan-par-etapes.md](06-plan-par-etapes.md) | Les 13 étapes de réalisation, avec résultat attendu et critère de réussite |
-| [07-apprentissage.md](07-apprentissage.md) | Winrates fiables, modèle de prédiction des matchs, suggestions du créateur : méthode, résultats, limites |
+| [07-apprentissage.md](07-apprentissage.md) | Winrates fiables, suggestions du créateur, effet des équipes à niveau égal : méthode, résultats, limites |
 | [rapport/rapport.md](rapport/rapport.md) | Mini rapport du rendu : paliers atteints, architecture, captures d'écran |
 
 ## Fonctionnalités
